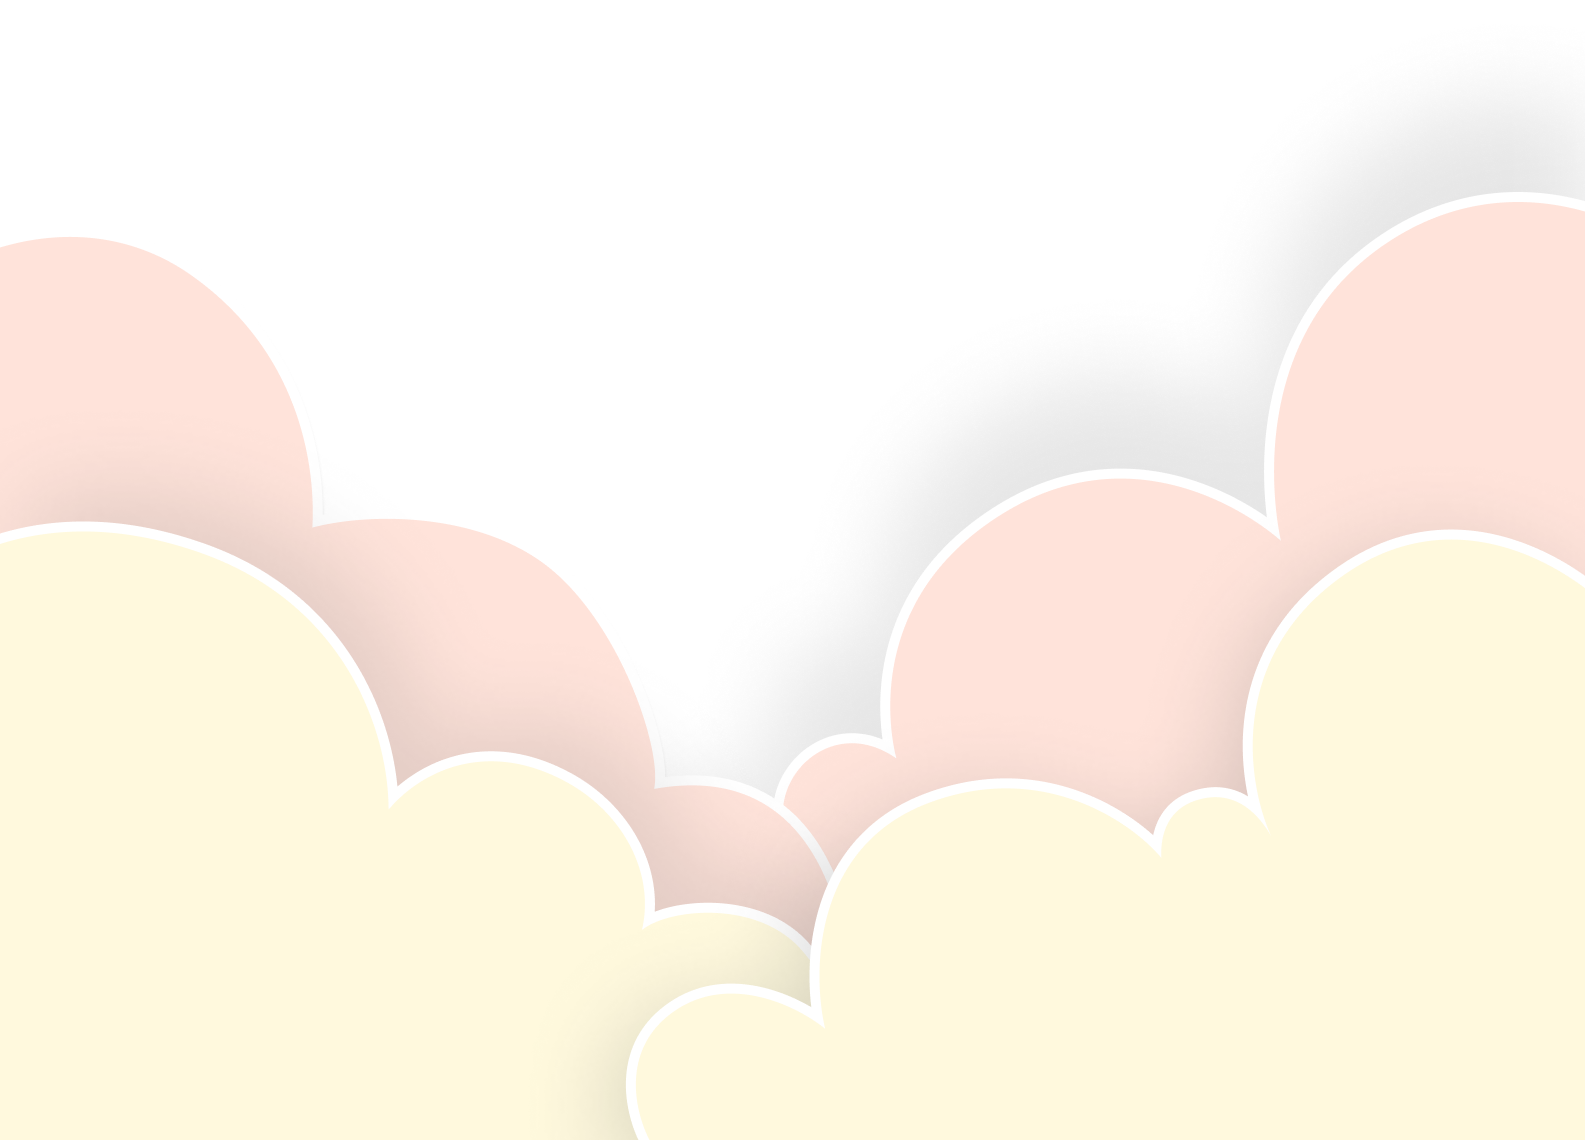
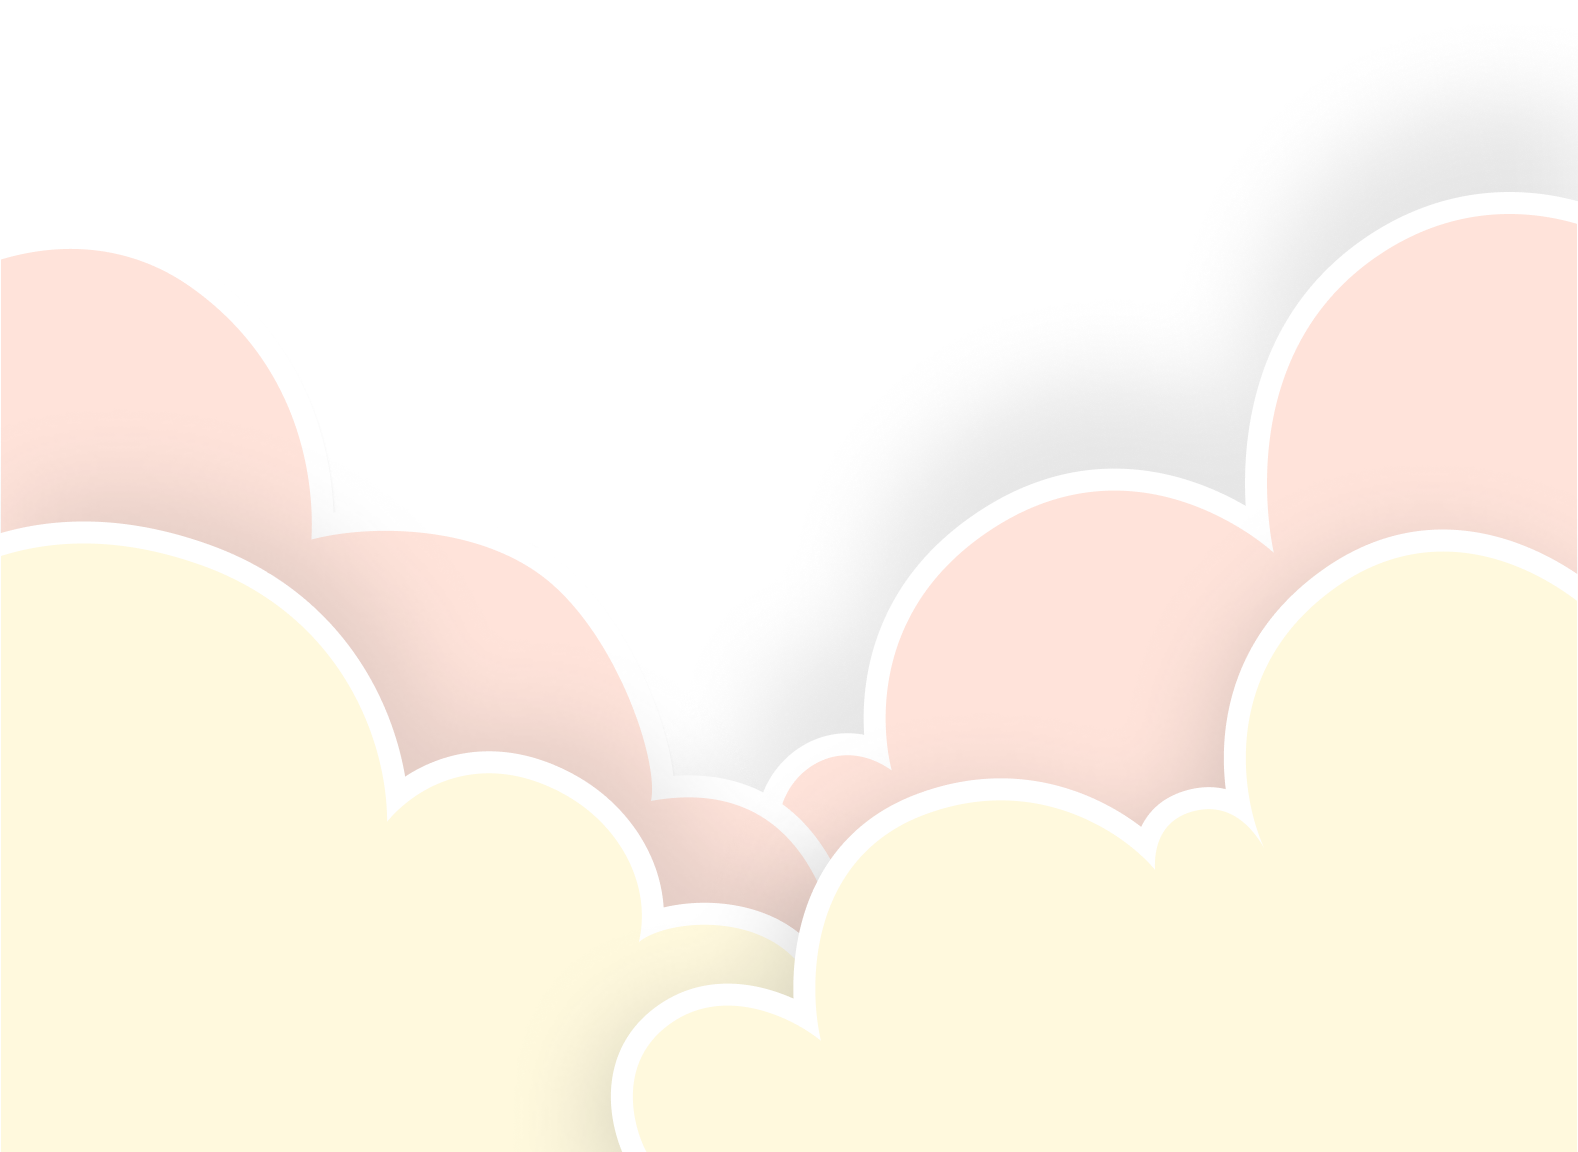
fixing cellphone dimensions

diff --git a/style.css b/style.css
@@ -144,8 +144,8 @@ button:hover{
     background-position: center;
     background-size: cover;
     width: 95rem;
-    height: 45rem;
-    margin-top: -30rem;
+    height: 60rem;
+    margin-top: -40rem;
 }
 footer > p{
     text-align: end;
@@ -154,7 +154,7 @@ footer > p{
     font-size: x-large;
     position: absolute;
     left: 66rem;
-    top: 80rem;
+    top: 85rem;
 }
 
 /*                           ANIMAÇÃO                   */
@@ -273,18 +273,17 @@ footer > p{
         box-shadow: .2rem .2rem .01rem #545454;
     }
     #clouds{
-        margin: -45rem 0 0 20rem;
-        width: 64rem;
+        margin: -48rem 0 0 0rem;
+        width: 77rem;
         background-repeat: no-repeat;
         background-position: center;
         background-size: cover;
     }
     footer > p{
         font-size: xx-large;
-        top: 101rem;
+        top: 112rem;
         right: -10rem;
         left: 5rem;
-        padding: 0;
     }
 }    
 
@@ -391,10 +390,10 @@ footer > p{
         padding: 0;
     }
     header{
-        margin-left: 5rem;
+        margin-left: -5rem;
     }
     body{
-        width: 20rem;
+        width: 48rem;
     }
     #foto{
         margin: 3rem 0 0 11rem;
@@ -415,15 +414,15 @@ footer > p{
         display: flex;
         flex-direction: row;   
         background: none;
-        margin: 3rem -25rem 0 0;
+        margin: 3rem 10rem 0 0;
     }
     #estrela02{
         width: 3rem;
         height: 3rem;
-        margin-right: -5rem;
+        margin-right: -19rem;
     }
     #brilhos02{
-        margin-right: 1rem;
+        margin-right: 11rem;
         width: 3.5rem;
         height: 3.5rem;
     }
@@ -431,28 +430,28 @@ footer > p{
         width: 18rem;
         font-size: 1.5rem;
         padding: 3rem 2rem 2rem .5rem;
-        margin: 0 -13rem 0 -24rem;
+        margin: 0 -7rem 0 -24rem;
     }
     .mainBoard{
-        margin: -8rem -13rem 0 -11rem;
+        margin: -8rem -4.8rem 0 -11rem;
     }
     #board{
         width: 18rem;
         height: 35rem;
-        margin: 8rem -15rem 12rem -16rem;
+        margin: 8rem -20rem 12rem -16rem;
         padding: 2rem 2rem 4rem 1rem;
     }
     #estrela{
         background: none;
         width: 5rem;
         height: 5rem;
-        margin: 15rem -1rem 0 21rem;
+        margin: 15rem -1rem 0 8rem;
         padding: 0 5rem 0;
     }
     #brilhos03{
         width: 3rem;
         height: 3rem;
-        margin: 25rem -10rem 0 2rem;
+        margin: 13rem -12rem 0 5rem;
         padding: 0 2rem 0;
     }
     button{
@@ -467,16 +466,16 @@ footer > p{
         box-shadow: .2rem .2rem .01rem #545454;
     }
     #clouds{
-        margin: -52rem 9rem 0 15rem;
-        width: 20rem;
+        margin: -65rem 9rem 0 0;
+        width: 55rem;
         background-repeat: no-repeat;
         background-position: center;
         background-size: cover;
     }
     footer > p{
         font-size: large;
-        top: 73rem;
-        right: -5rem;
+        top: 70rem;
+        right: -33rem;
         left: 5rem;
         padding: 0;
     }
